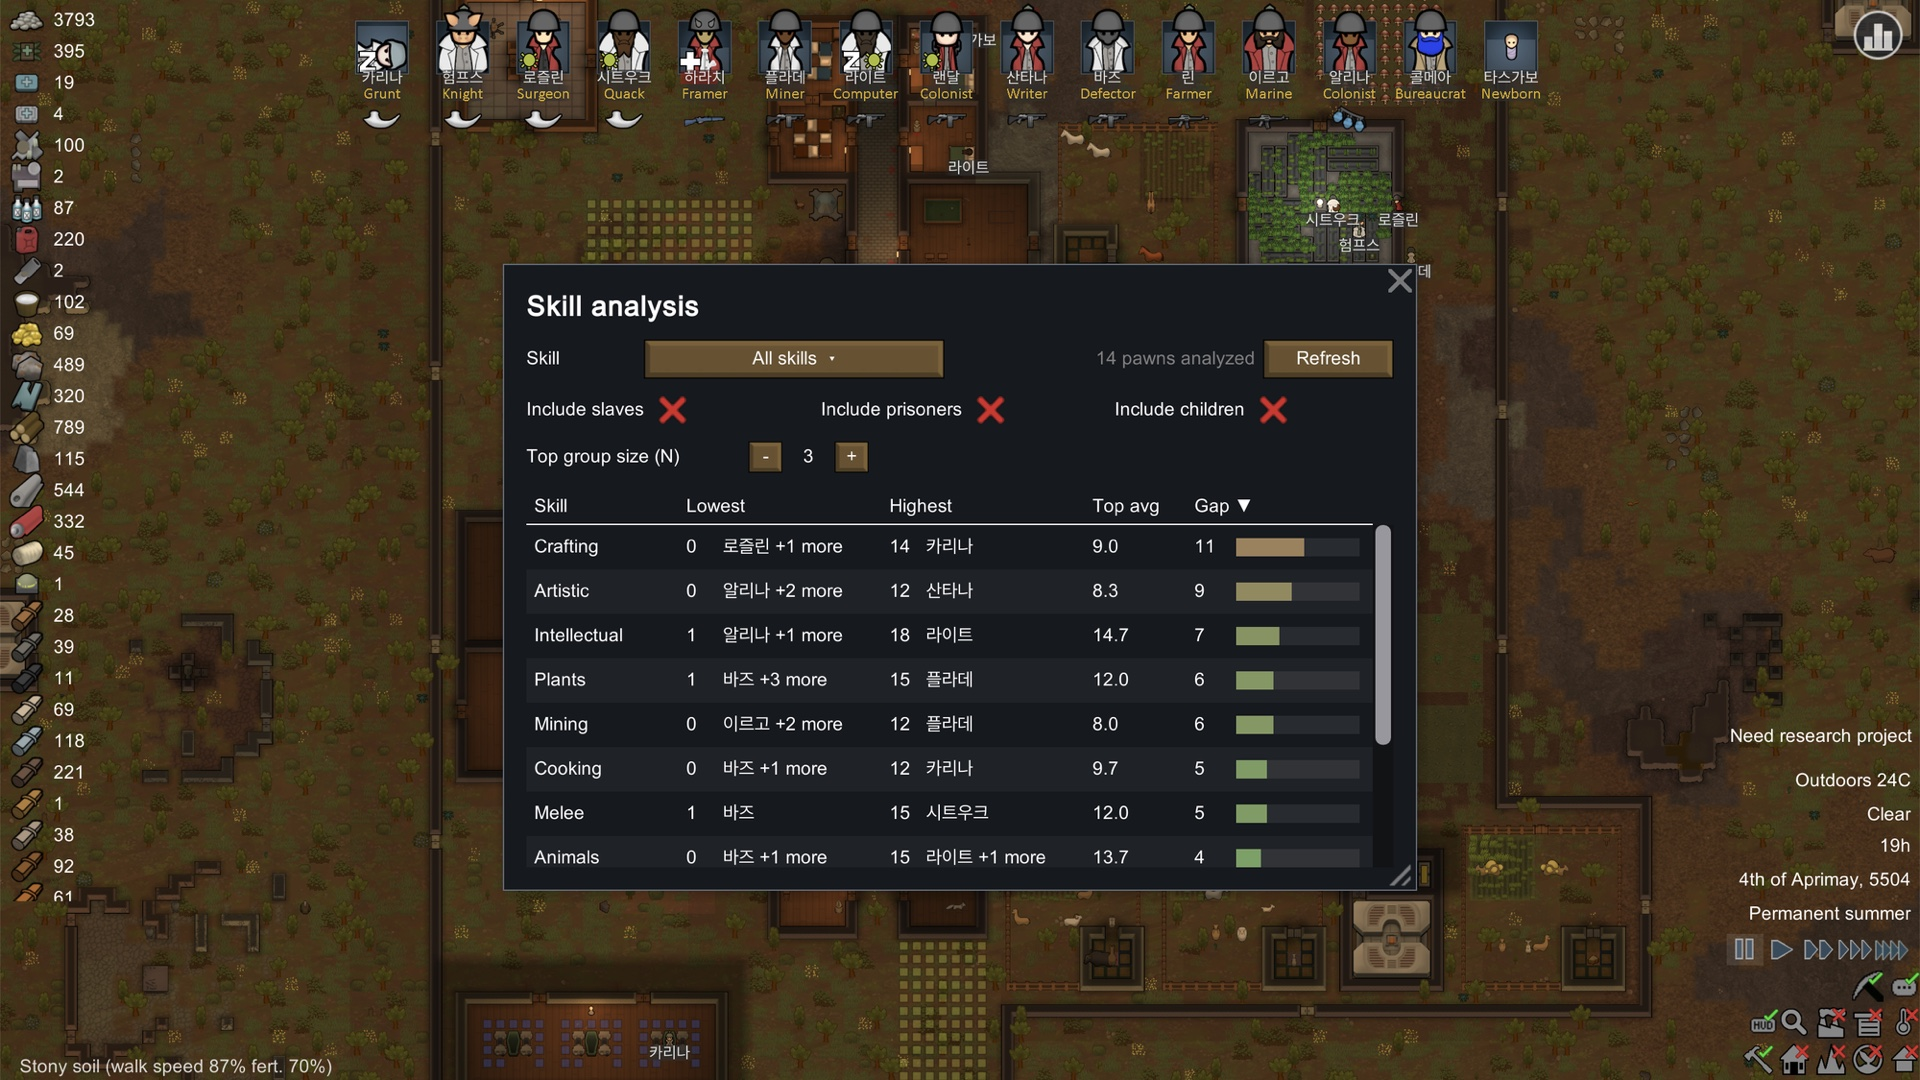
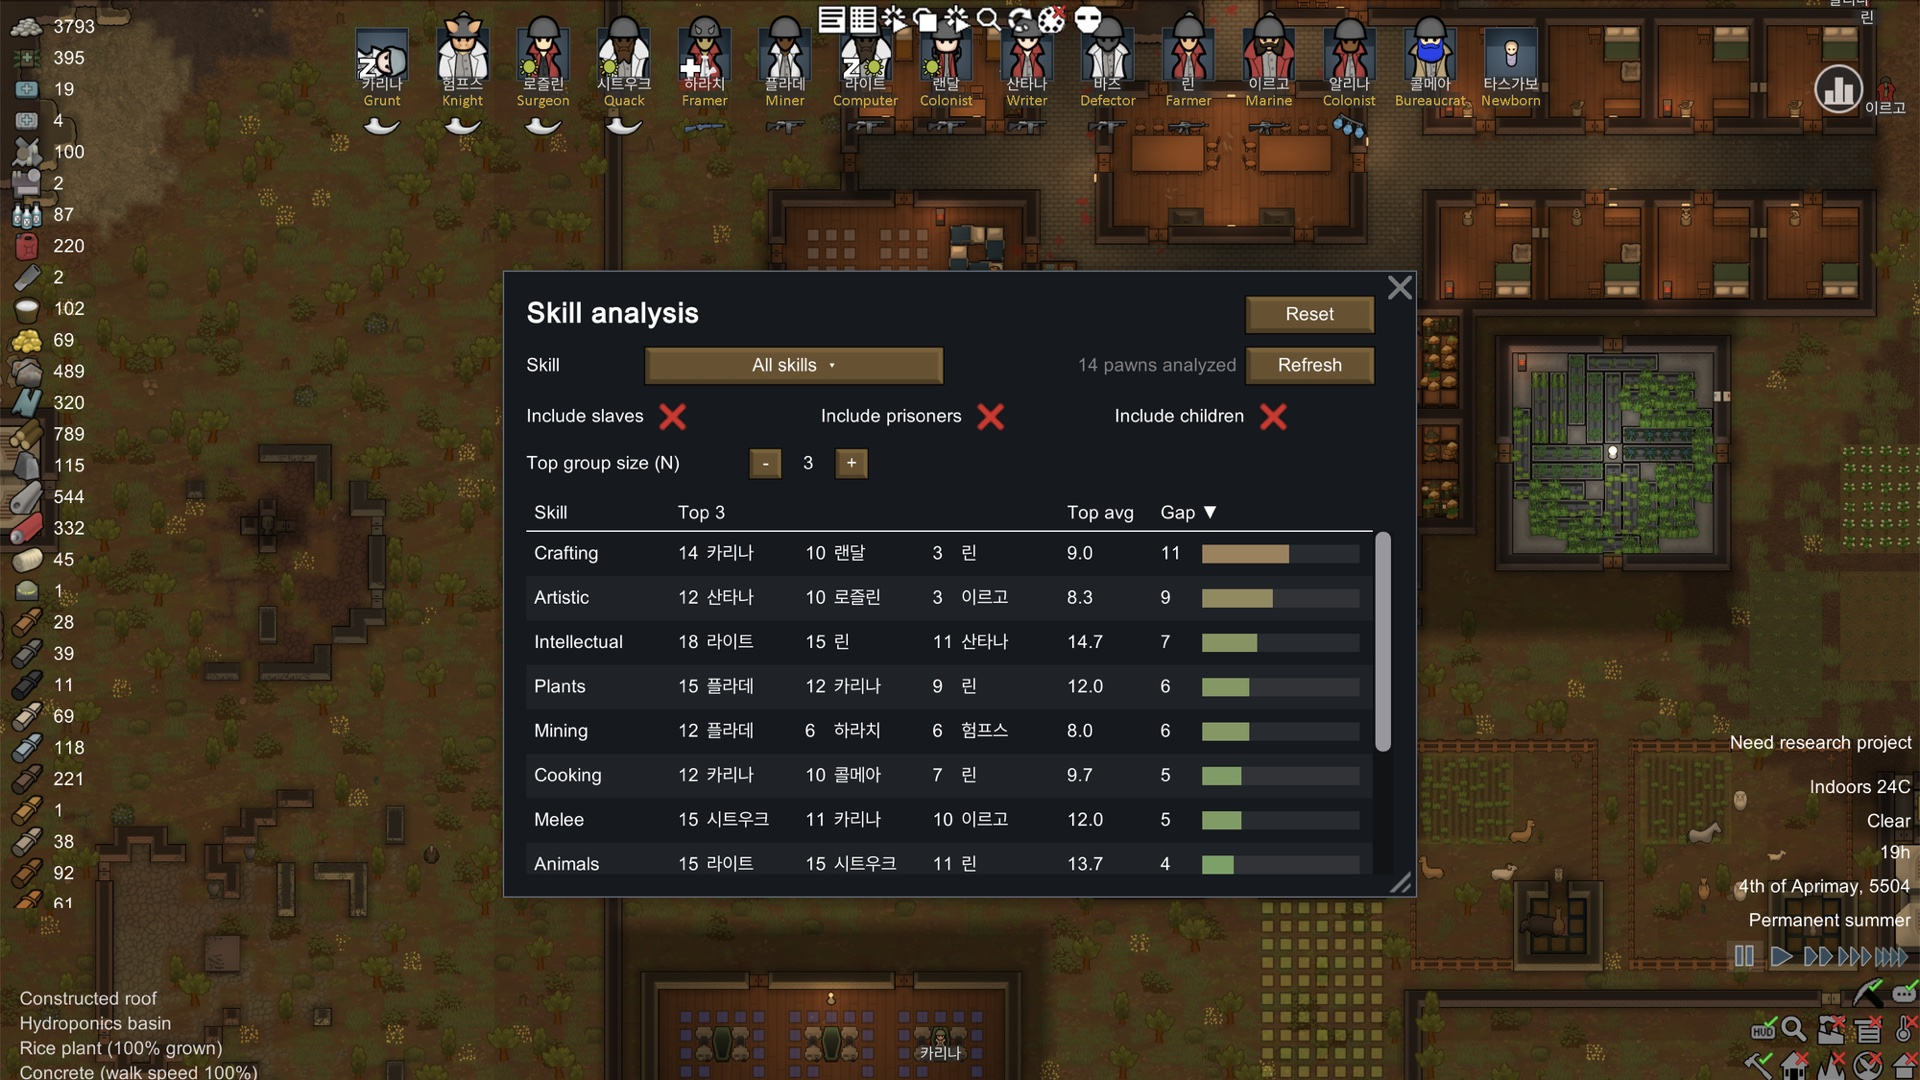
docs: update screenshots and preview image

diff --git a/README.md b/README.md
@@ -16,6 +16,8 @@ A RimWorld mod that analyzes your colonists' skills. As you recruit more and mor
 
 ![Single skill](docs/screenshots/02-single-skill.jpg)
 
+![Minimum level and passions](docs/screenshots/03-min-level.jpg)
+
 ## Requirements
 
 - RimWorld **1.7** (Waylith Engine, currently on the Steam unstable beta branch)
@@ -93,6 +95,8 @@ This project is licensed under the [MIT License](LICENSE).
 - **설정 기억**: 필터, N, 선택한 스킬, 버튼 위치가 저장됩니다. 창의 초기화 버튼으로 기본 화면으로 되돌릴 수 있습니다.
 
 ![스킬 하나 보기](docs/screenshots/02-single-skill.jpg)
+
+![최소 레벨과 열정](docs/screenshots/03-min-level.jpg)
 
 ## 요구 사항
 
